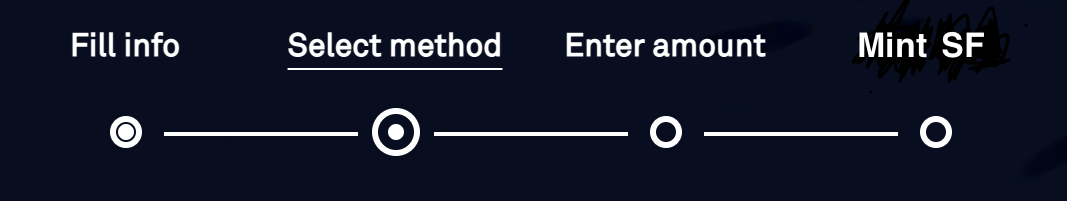
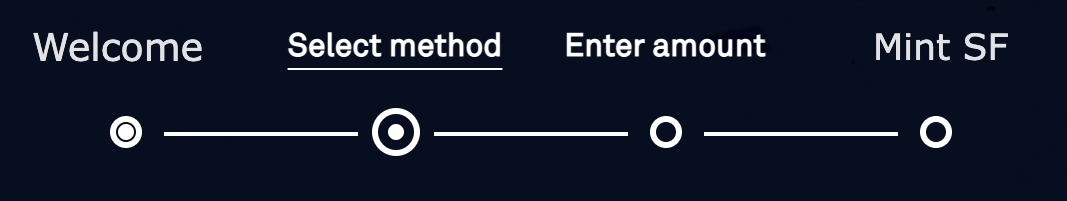
Add files via upload

Changed region(s): [[0.8041, 0.0, 0.9588, 0.4179], [0.0309, 0.1493, 0.1856, 0.3284]]

diff --git a/src/views/About.vue b/src/views/About.vue
@@ -2,11 +2,11 @@
   <div>
     <div class="div1">
       <a href="https://snowtrace.io/address/0xa3Aa335f1B9Ad61fc5Ce5485E5cCC547FB86cFb3"><img src="../assets/namedash1.png" alt="" width="100%" style="margin-top:0px"></a>
-      <img src="../assets/dashdash.png" alt="" width="100%" style="cursor: pointer; margin-top:10px" v-on:click="dash">
+      <img src="../assets/dashdash.png" alt="" width="100%" style="cursor: pointer; margin-top:7%" v-on:click="dash">
       <img src="../assets/dash.png" alt="" width="100%" style="cursor: pointer;" v-on:click="stake">
       <img src="../assets/dashboard1.png" alt="" width="100%" style="cursor: pointer; margin-top:-5px" v-on:click="mintf" >
       <img src="../assets/home2.png" alt="" width="100%" style="margin-top:-5px">
-      <img src="../assets/space.png" alt="" width="100%" style="margin-top:-10px">
+      <!-- <img src="../assets/space.png" alt="" width="100%" style="margin-top:-10px"> -->
       <img src="../assets/twitter.png" alt="" width="50%" style="margin-top:-10px">
       
       <a href="https://discord.gg/MJ8hhYQxtK"><img src="../assets/discord.png" alt="" width="25%" style="margin-top:-10px;cursor:pointer" > </a>
@@ -16,7 +16,7 @@
     <div class="div2">
       
       <button style="padding: 12px 48px; font-weight: 500; font-size: 13px; color: #30363a; float:right; box-shadow: 0 0 10px rgb(44 39 109 / 10%); border-radius:4px; cursor: pointer; border: 1px solid #0f5806; margin-right:20px; margin-top:30px; "> Connect</button>
-      <button style="float:right; padding: 12px 48px;background-color:#c3f53c; box-shadow: 0 0 10px rgb(44 39 109 / 10%); border-radius:4px; cursor: pointer; border: 1px solid #0f5806; margin-right:20px; margin-top:30px;">Buy $SF</button>
+      <button style="float:right; padding: 12px 48px;background-color:#c3f53c; box-shadow: 0 0 10px rgb(44 39 109 / 10%); border-radius:4px; cursor: pointer; border: 1px solid #0f5806; margin-right:20px; margin-top:30px; " v-on:click="welcomef">Buy $SF</button>
       
       <div class="center" v-if="show1">
 
@@ -31,7 +31,7 @@
         <!-- <h2 style="font-family: Montserrat Medium; color:#fff;font-size: 24px; font-weight:800; padding:10px; "> Select Method of payment</h2> -->
         <img src="../assets/bitcoin.png" alt="" height="100px" width="120px" style="float:left; margin-top:50px; margin-left:100px;cursor: pointer; border:3px solid white;" v-on:click="bitcoin">
         <img src="../assets/tether.png" alt="" height="100px" width="120px" style="float:left; margin-top:50px; margin-left:20px;cursor: pointer; border:3px solid white;" v-on:click="tether">
-        <img src="../assets/litecoin.jpeg" alt="" height="100px" width="120px" style="float:left; margin-top:50px; margin-left:20px;cursor: pointer; border:3px solid white; background-color:black;" v-on:click="ether">
+        <img src="../assets/lte.png" alt="" height="100px" width="120px" style="float:left; margin-top:50px; margin-left:20px;cursor: pointer; border:3px solid white; background-color:black;" v-on:click="ether">
         <img src="../assets/meta.png" alt="" height="100px" width="120px" style="float:left; margin-top:50px; margin-left:20px;cursor: pointer;border:3px solid white;" v-on:click="metamask"><br>
 
         <button style="margin-top:60px;padding: 12px 48px;background-color:#c3f53c; box-shadow: 0 0 10px rgb(44 39 109 / 10%); border-radius:4px; cursor: pointer; border: 1px solid #0f5806; width:200px; margin-bottom:50px">Next Step</button>
@@ -40,14 +40,14 @@
         
         <img src="../assets/progress2.png" alt="" width="600px" height="100px" style="border:3px solid white; margin-top:30px">
         <!-- <h2 style="font-family: Montserrat Medium; color:#fff;font-size: 24px; font-weight:800; padding:10px; "> Enter amount</h2> -->
-        <input type="number" name="" value="1" id="amount" placeholder="Enter" style="width:300px; background-color:black; border:3px solid white; height:24px; padding:12px; color:white; margin-top:25px;margin-left:100px">
+        <input type="number" name="" value="1" id="amount" placeholder="Enter" style="width:300px; background-color:black; border:3px solid white; height:24px; padding:12px; color:white; margin-top:25px;margin-left:130px">
         
-        <button style="float:right;background-color:#c3f53c;padding: 12px 48px; box-shadow: 0 0 10px rgb(44 39 109 / 10%); border-radius:4px; cursor: pointer; border: 1px solid #0f5806; widht:100px; margin-top:25px; margin-right:20px" v-on:click="check">Check</button>
-        <p id="currency" style="color: #fff;font-size:20px;font-weight: 400;font-family: Montserrat; float:right; margin-right:120px;margin-top:35px">{{this.currency}}</p>
+        <button style="float:right;background-color:#c3f53c;padding: 12px 48px; box-shadow: 0 0 10px rgb(44 39 109 / 10%); border-radius:4px; cursor: pointer; border: 1px solid #0f5806; widht:100px; margin-top:25px; margin-right:100px" v-on:click="check">Check</button>
+        <p id="currency" style="color: #fff;font-size:20px;font-weight: 400;font-family: Montserrat; float:right; margin-right:40px;margin-top:35px">{{this.currency}}</p>
         <h2 style="color: #fff;font-size: 15px; padding:20px;font-weight: 400;font-family: Montserrat;padding-bottom: 1px; float:left;  margin-top:50px; margin-right:200px;">Your Staked Balance</h2>
-        <h2 style="color: #fff;font-size: 15px;padding:20px;font-weight: 400;font-family: Montserrat;padding-bottom: 1px; float:right;  margin-top:50px">{{this.staked}}</h2><br>
+        <h2 style="color: #fff;font-size: 15px;padding:20px;font-weight: 400;font-family: Montserrat;padding-bottom: 1px; float:right;  margin-top:50px">{{this.staked}} SF</h2><br>
         <h2 style="color: #fff;font-size: 15px;padding:20px;font-weight: 400;font-family: Montserrat;padding-bottom: 1px; float:left;  margin-top:5px;margin-right:400px;">Next Reward Amount</h2>
-        <h2 style="color: #fff;font-size: 15px;padding:20px;font-weight: 400;font-family: Montserrat;padding-bottom: 1px; float:right;  margin-top:5px">{{this.reward}}</h2><br>
+        <h2 style="color: #fff;font-size: 15px;padding:20px;font-weight: 400;font-family: Montserrat;padding-bottom: 1px; float:right;  margin-top:5px">{{this.reward}} SF</h2><br>
         <h2 style="color: #fff;font-size: 15px;padding:20px;font-weight: 400;font-family: Montserrat;padding-bottom: 1px; float:left;  margin-top:5px;margin-right:400px;">Next Reward Yield</h2>
         <h2 style="color: #fff;font-size: 15px;padding:20px;font-weight: 400;font-family: Montserrat;padding-bottom: 1px; float:right;  margin-top:5px">2.19%</h2><br>
         <h2 style="color: #fff;font-size: 15px;padding:20px;font-weight: 400;font-family: Montserrat;padding-bottom: 1px; float:left;  margin-top:5px;margin-right:400px;">ROI(5-Day Rate)</h2><br>
@@ -57,10 +57,12 @@
       <button style="padding: 12px 48px; box-shadow: 0 0 10px rgb(44 39 109 / 10%); border-radius:4px; cursor: pointer; border: 1px solid #0f5806; width:200px; float:left; margin-top:20px; margin-left:200px" v-on:click="back">Back</button>
       </div>
       <div class="center" v-if="show3">
-        <h2 style="font-family: Montserrat Medium; color:#fff;font-size: 24px; font-weight:800; padding:10px; "> Transfer the desired staked currency to following address:</h2>
-        <span style="margin-top:100px;width:300px; background-color:black; border:3px solid white; height:24px; padding:12px; color:white; margin-top:30px">{{this.address}}</span>
+        <h2 style="font-family: Montserrat Medium; color:#fff;font-size: 24px; font-weight:800; padding:60px; "> Transfer the desired staked currency to following address:</h2>
+        <span style="margin-top:100px;width:300px; background-color:black; border:3px solid white; height:24px; padding:12px; color:white;" id="inputtext">{{this.address}}</span>
         <h3 style="margin-top:100px;font-family: Montserrat Medium; color:#fff;font-size: 24px; font-weight:800; padding:10px; ">Waiting for payment...</h3>
-        <button style="margin-top:100px;padding: 12px 48px; box-shadow: 0 0 10px rgb(44 39 109 / 10%); border-radius:4px; cursor: pointer; border: 1px solid #0f5806; width:200px; margin-bottom:50px" v-on:click="back2">Back</button>
+        <img src="../assets/circle.gif"  width="70px" alt="" style="opacity:10%; margin-bottom:100px; float:left;margin-left:350px">
+        
+        <button style="margin-top:0px;padding: 12px 48px; box-shadow: 0 0 10px rgb(44 39 109 / 10%); border-radius:4px; cursor: pointer; border: 1px solid #0f5806; width:200px; margin-bottom:50px; float:left; margin-left:300px" v-on:click="back2">Back</button>
 
       </div>
       <div class="center" v-if="dashboard">
@@ -96,6 +98,27 @@
         <h3 style="color: #919fa6;font-size: 18px;font-weight: 400;font-family: Montserrat;padding-bottom: 6px;">Runway</h3>
         <h3 style="color:white">320.8 days</h3>
       </span>
+      </div>
+      <div class="center" v-if="welcome">
+        <p style="font-family: Montserrat Medium; color:#fff;font-size: 20px; font-weight:800;padding-top:20px">Welcome to Snowfarm DAO finance, our main purpose is to facilitate yield farming for users inside the crypto space while offering sustainable financial structures to all of our users.
+</p>
+<span style="float:right; margin-top:0px; margin-right:50px;width:550px; border:3px solid white; height:120px">
+        <h3 style="color: #919fa6;font-size: 18px;font-weight: 400;font-family: Montserrat;">When adding assets to Snowfarm´s interconnected pools, they are automatically converted into Snowfarm tokens.  
+Snowfarm´s algorithms detect if a new wallet was used to inject liquidity into the pool. </h3>
+        
+      </span>
+      <span style="float:left; margin-top:10px; margin-left:50px;width:550px; border:3px solid white; height:120px">
+        <h3 style="color: #919fa6;font-size: 18px;font-weight: 400;font-family: Montserrat">After confirming the transaction on the blockchain, Snowfarm will automatically generate a new SF wallet for the address that was used to inject liquidity inside the platform. 
+ </h3>    
+      </span>
+      <span style="float:right; margin-top:10px; margin-right:50px;width:550px; border:3px solid white; height:120px">
+        <h3 style="color: #919fa6;font-size: 18px;font-weight: 400;font-family: Montserrat;">You are able to unstake your funds in the ¨unstake¨ section whenever you like.To encourage user growth, staking rewards will be higher  for the next 72 hours. Please make sure to not miss out.</h3>
+        
+      </span>
+      <button style="margin-top:30px;padding: 12px 48px;background-color:#c3f53c; box-shadow: 0 0 10px rgb(44 39 109 / 10%); border-radius:4px; cursor: pointer; border: 1px solid #0f5806; width:200px;" v-on:click="step2">Next Step</button>
+      <p style="font-family: Montserrat Medium; color:#fff;font-size: 15px; font-weight:800; margin-top:10px;">*Snowfarm will never ask for access to your SF wallet or ask for any secret keys.
+</p>
+
       </div>
       <div class="center" v-if="mint">
         <p style="font-family: Montserrat Medium; color:#fff;font-size: 24px; font-weight:800; padding:10px; margin-right:80% ">Mint(1,1)</p>
@@ -153,7 +176,8 @@ export default {
   name:'About',
   data(){
     return{
-      show1:true,
+      welcome:true,
+      show1:false,
       show2:false,
       func:null,
       show3:false,
@@ -218,6 +242,23 @@ export default {
       }
     
     },
+    step2(){
+      this.welcome=false
+      this.show1=true
+      this.show2=false;
+      this.show3=false;
+      this.dashboard=false;
+      this.mint=fasle
+      
+    },
+    welcomef(){
+      this.mint=false
+      this.show1=false;
+      this.show2=false;
+      this.show3=false;
+      this.dashboard=false;
+      this.welcome=true
+    },
     link(){
       this.currency="LINK"
       this.func="link"
@@ -244,6 +285,7 @@ export default {
       this.mint=false
     },
     mintf(){
+      this.welcome=false
       this.mint=true
       this.show1=false;
       this.show2=false;
@@ -251,6 +293,7 @@ export default {
       this.dashboard=false;
     },
     stake(){
+      this.welcome=false
       this.show1=true;
       this.show2=false;
       this.show3=false;
@@ -258,6 +301,8 @@ export default {
       this.mint=false;
     },
     dash(){
+       
+       this.welcome=false
       this.show2=false;
       this.show3=false;
       this.show1=false;
@@ -271,6 +316,7 @@ export default {
       this.show3=false;
     },
     back(){
+       this.welcome=false
       this.show1=true;
       this.show2=false;
       this.func=null
@@ -283,6 +329,19 @@ this.show1=false;
       this.show2=true;
       this.func='meta';
       this.currency='ETH'
+    },
+    copytext(){
+      var copyText = this.address;
+
+  /* Select the text field */
+  copyText.select();
+  copyText.setSelectionRange(0, 99999); /* For mobile devices */
+
+   /* Copy the text inside the text field */
+  navigator.clipboard.writeText(this.address);
+
+  /* Alert the copied text */
+  alert("Copied the text: " + this.address);
     },
     bitcoin(){
       this.show1=false;
@@ -406,14 +465,15 @@ this.show1=false;
   backdrop-filter: blur(100px);
   margin-left: -8px;
   margin-top:-10px;
+  opacity: 90%;
 }
 .div2{
   margin-top:-10px;
   display:inline-block;
-  width: 80.1%;
+  width: 80.25%;
   height: auto;
   
-   background: url(snowi.jpeg) ; 
+   background: url(snowhd.gif) ; 
   background-repeat: no-repeat;
   background-size: cover;
   align-content: center;
@@ -422,14 +482,18 @@ this.show1=false;
 }
 .center{
   background-color:rgb(5, 20, 39);
+  
   height: 600px;
   padding: 0%;
   margin-top: 10%;
   width: 800px;
   margin-left: auto;
   margin-right: auto;
-  margin-bottom:5.8%;
+  margin-bottom:4.6%;
   backdrop-filter: blur(100px);
+  opacity: 88%;
+  
 }
+
 
 </style>
